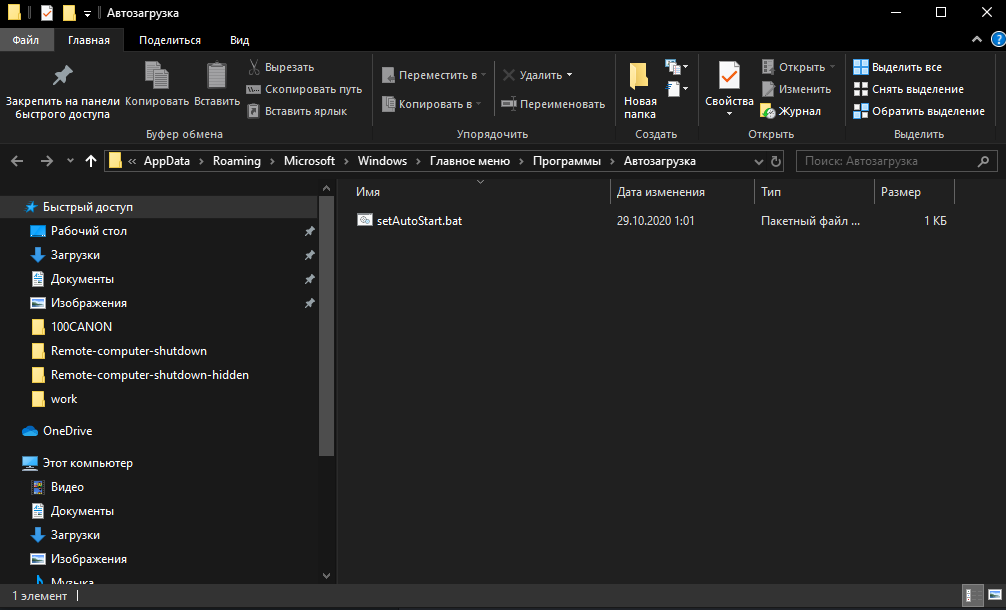
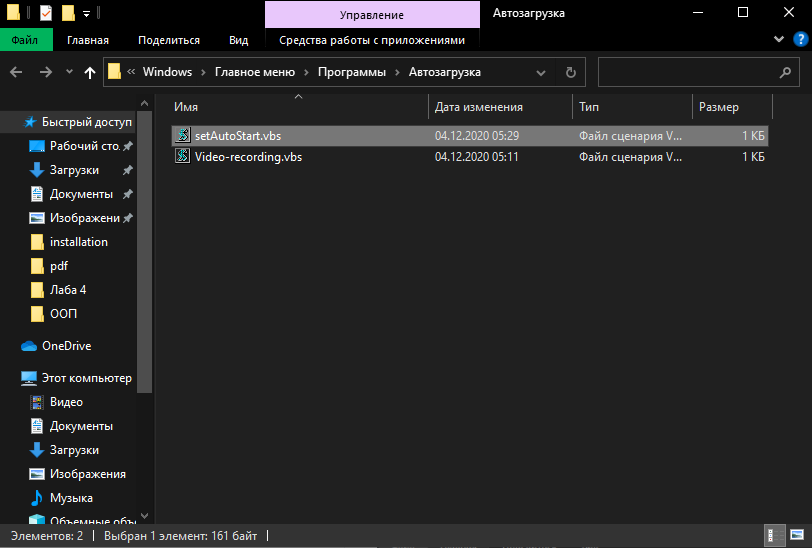
update readme

diff --git a/README.md b/README.md
@@ -22,7 +22,7 @@ The program can remotely shutdown your computer from any device (if the device a
 
 ### Setting autorun on computer startup
 
-- If you want to set automatic startup, then moved the folder with the program to the C drive. Then hold down the Win button and press the R button, enter "shell:startup" in the field that appears, press Enter. Then move there the file called setAutoStart (setAutoStart.bat) from the program files (Remote-computer-shutdown, Remote-computer-shutdown\setAutoStart.bat). The program will now start automatically
+- If you want to set automatic startup, then moved the folder with the program to the C drive. Then hold down the Win button and press the R button, enter "shell:startup" in the field that appears, press Enter. Then move there the file called setAutoStart (setAutoStart.vbs) from the program files (Remote-computer-shutdown, Remote-computer-shutdown\setAutoStart.vbs). The program will now start automatically
 
 #### Step by step in photos
 
@@ -38,7 +38,7 @@ The program can remotely shutdown your computer from any device (if the device a
 <img src="form\img\readme\input-auto-start.png" />
 </p>
 
-3. Move setAutoStart (setAutoStart.bat) to the appeared startup folder
+3. Move setAutoStart (setAutoStart.vbs) to the appeared startup folder
 
 <p align="center">
 <img src="form\img\readme\set-auto-start.png" />
